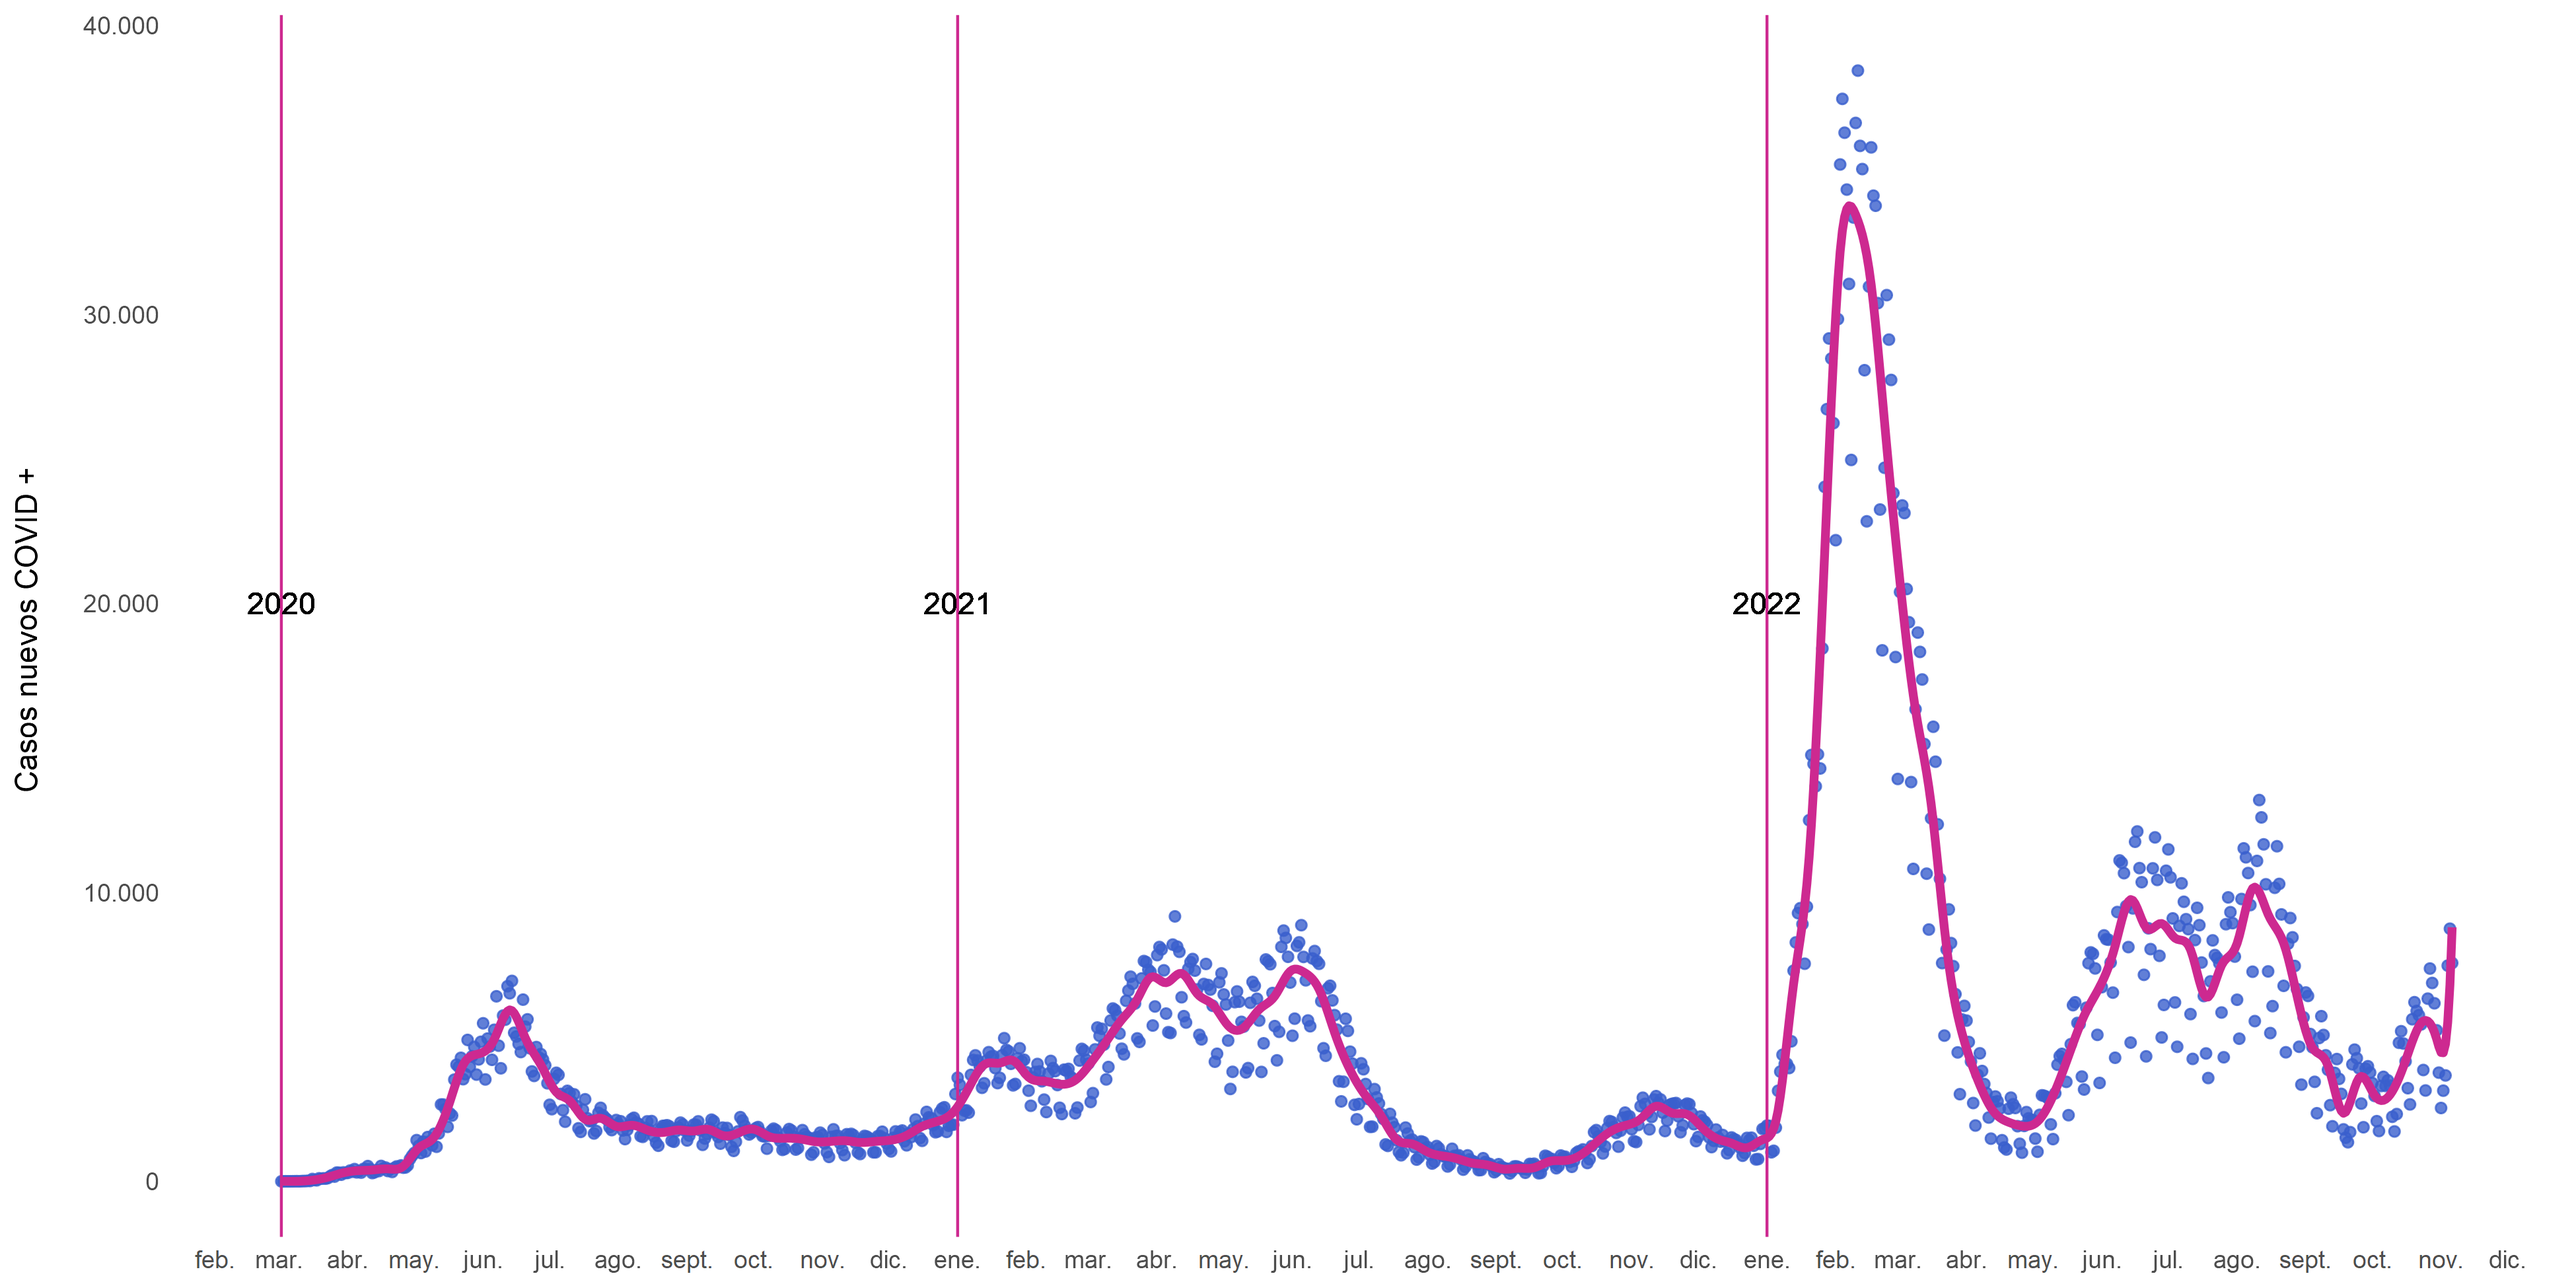
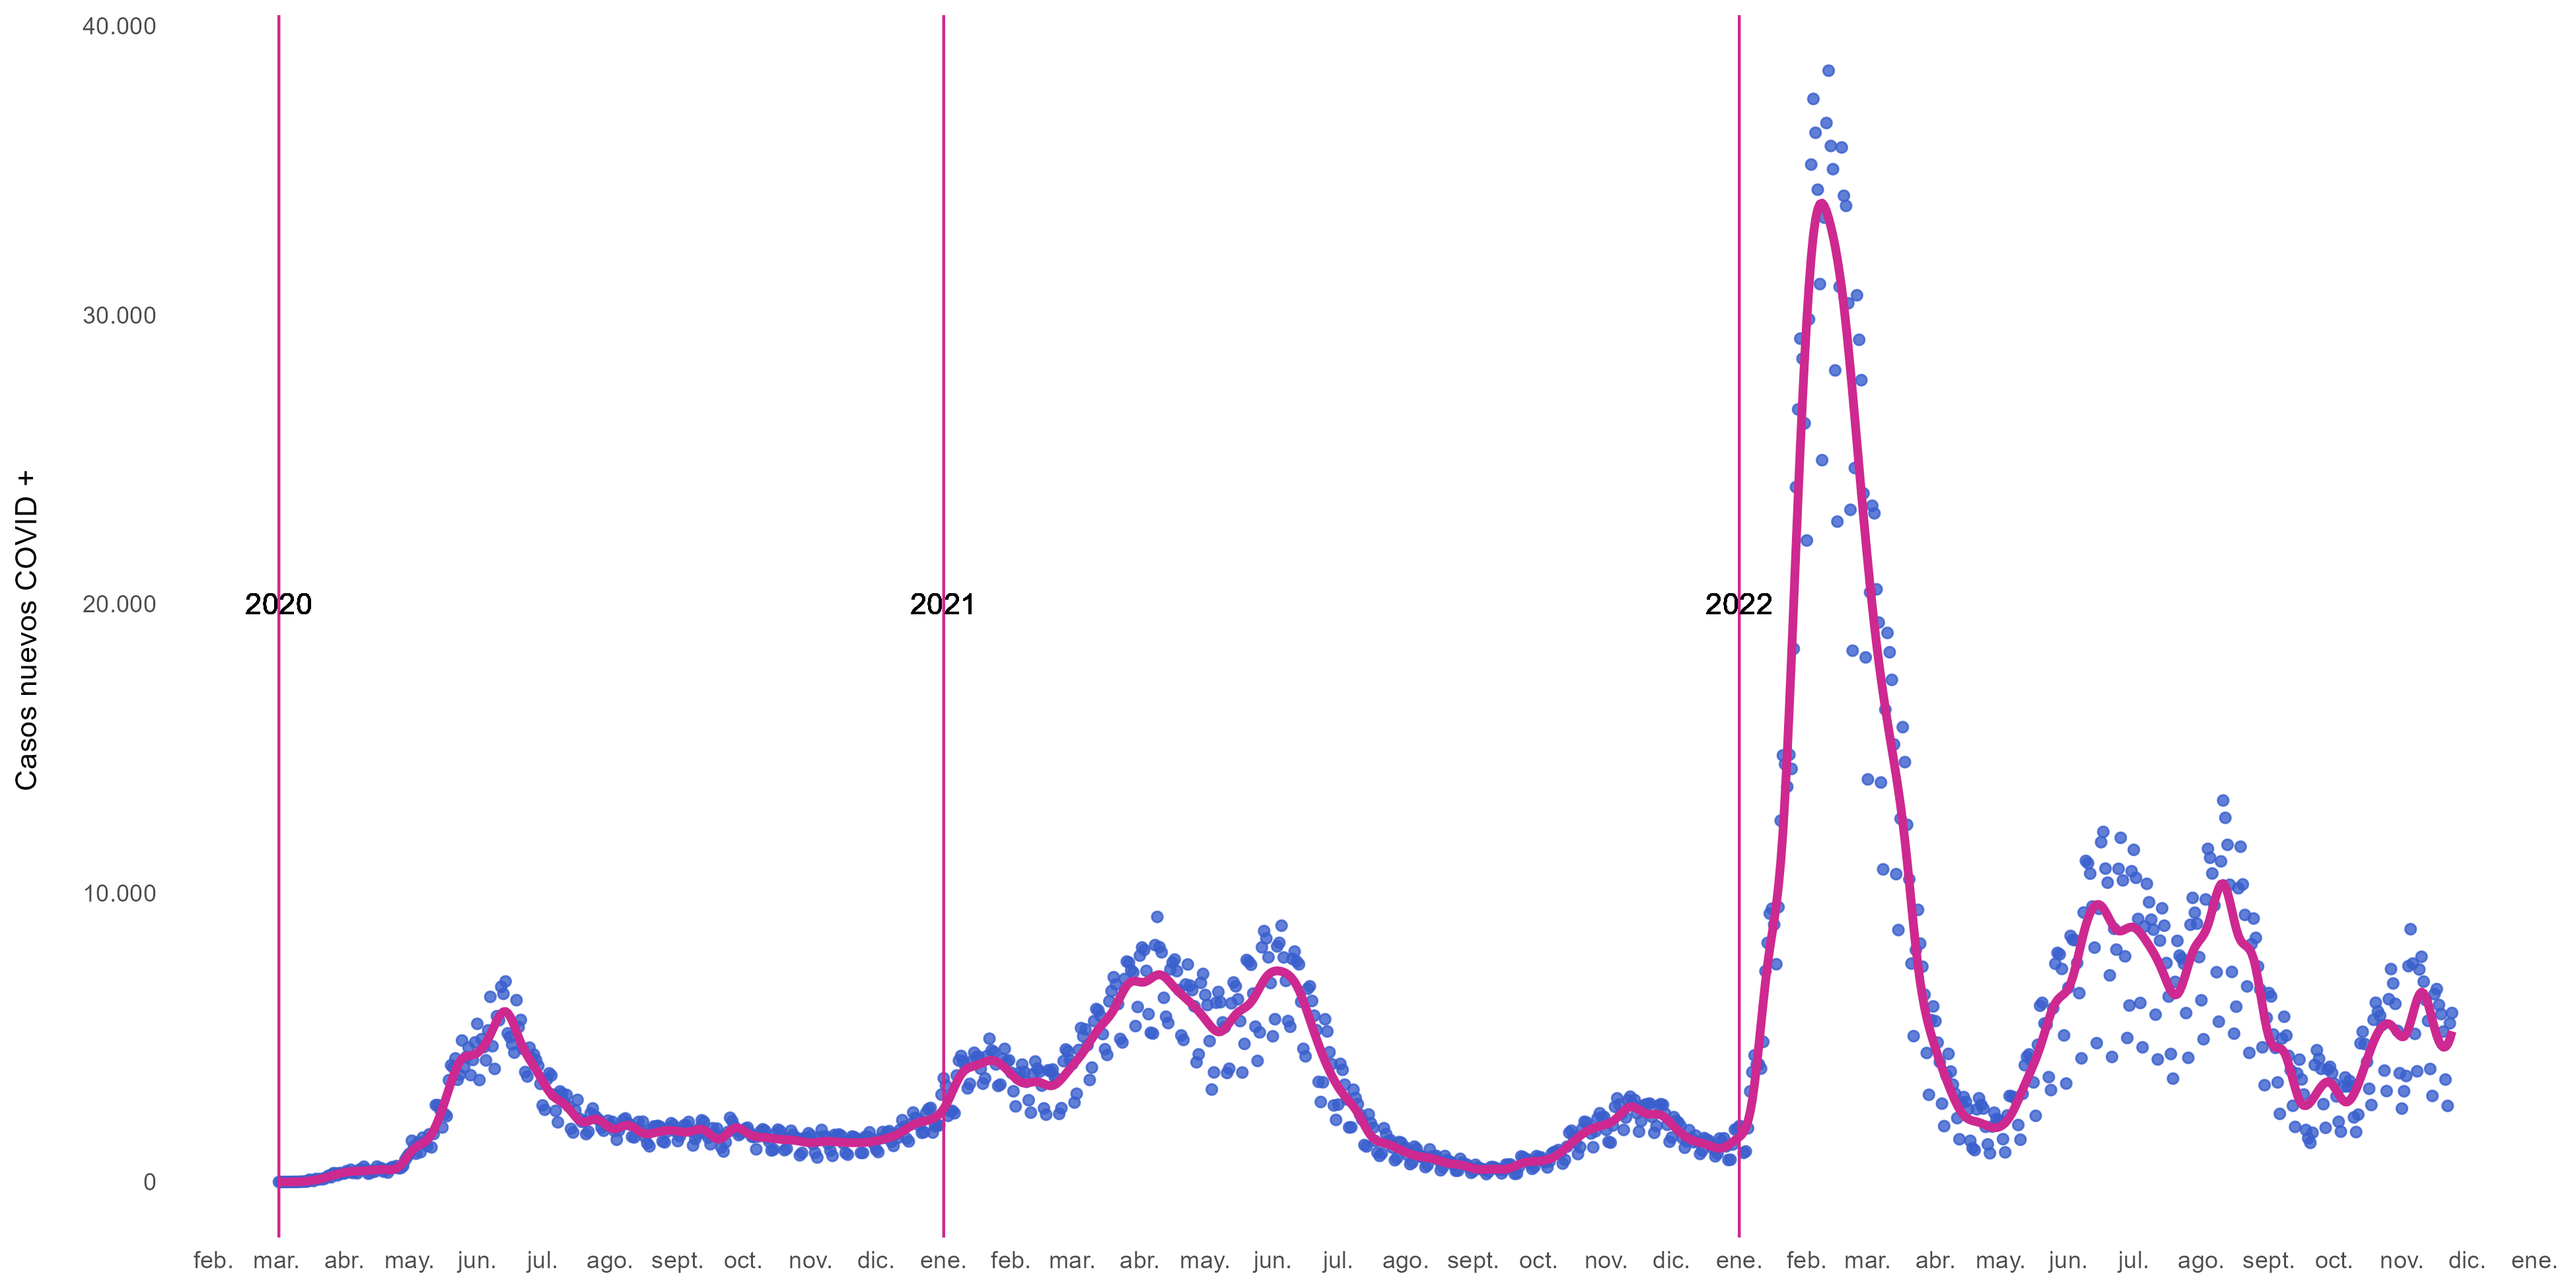
F5 24_11

diff --git a/README.md b/README.md
@@ -1,6 +1,6 @@
 # covid_scl
 
-COVID's situation in Chile. **Last update: 7-11-2022**
+COVID's situation in Chile. **Last update: 24-11-2022**
 
 ## COVID stripes
 
